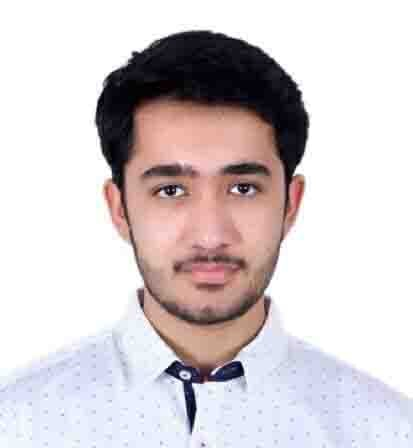
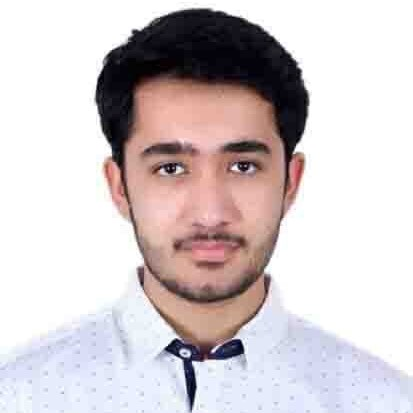
fixed more member images

diff --git a/members/index.html b/members/index.html
@@ -69,7 +69,7 @@
                      <p>Aakash Mangla </p>
                   </div>
                   <div class="gallery">
-                     <img src="../images/members/Capture.PNG"  class="w3-opacity w3-hover-opacity-off">
+                     <img src="../images/members/Capture.jpg"  class="w3-opacity w3-hover-opacity-off">
                      <p>Abhay Gupta</p>
                   </div>
                   <div class="gallery">
@@ -93,7 +93,7 @@
                      <p>Ansh Arora</p>
                   </div>
                   <div class="gallery">
-                     <img src="../images/members/arnub.PNG"  class="w3-opacity w3-hover-opacity-off">
+                     <img src="../images/members/arnub.jpg"  class="w3-opacity w3-hover-opacity-off">
                      <p>Arnav Arora</p>
                   </div>
                   <div class="gallery">
@@ -125,11 +125,11 @@
                      <p>Ishaan Bhattacharya</p>
                   </div>
                   <div class="gallery">
-                     <img src="../images/members/jeremy.png"  class="w3-opacity w3-hover-opacity-off">
+                     <img src="../images/members/jeremy.jpg"  class="w3-opacity w3-hover-opacity-off">
                      <p>Jeremy Singson</p>
                   </div>
                   <div class="gallery">
-                     <img src="../images/members/pnpl.png"  class="w3-opacity w3-hover-opacity-off">
+                     <img src="../images/members/pnpl.jpg"  class="w3-opacity w3-hover-opacity-off">
                      <p>Kaustubh Varshney</p>
                   </div>
                   <div class="gallery">
@@ -161,7 +161,7 @@
                      <p>Palaash Goel</p>
                   </div>
                   <div class="gallery">
-                     <img src="../images/members/piyush.png"  class="w3-opacity w3-hover-opacity-off">
+                     <img src="../images/members/piyush.jpg"  class="w3-opacity w3-hover-opacity-off">
                      <p>Piyush Passi</p>
                   </div>
                   <div class="gallery">
@@ -169,10 +169,10 @@
                      <p>Prabhav Chauhan</p>
                   </div>
                   <div class="gallery">
-                     <img src="../images/members/bajaj.png"  class="w3-opacity w3-hover-opacity-off">
+                     <img src="../images/members/bajaj.jpg"  class="w3-opacity w3-hover-opacity-off">
                      <p>Pradyun Bajaj</p>
                   </div>
-		 <div class="gallery">
+		 		  <div class="gallery">
                      <img src="../images/members/prakhar.jpg"  class="w3-opacity w3-hover-opacity-off">
                      <p>Prakhar Gupta</p>
                   </div>
@@ -185,11 +185,11 @@
                      <p>Rachit Soni</p>
                   </div>
                   <div class="gallery">
-                     <img src="../images/members/raghav.PNG"  class="w3-opacity w3-hover-opacity-off">
+                     <img src="../images/members/raghav.jpg"  class="w3-opacity w3-hover-opacity-off">
                      <p>Raghav Ailawadi</p>
                   </div>
                   <div class="gallery">
-                     <img src="../images/members/rishabh.PNG"  class="w3-opacity w3-hover-opacity-off">
+                     <img src="../images/members/rishabh.jpg"  class="w3-opacity w3-hover-opacity-off">
                      <p>Rishabh Chhabra</p>
                   </div>
                   <div class="gallery">
@@ -209,7 +209,7 @@
                      <p>Saransh Tandon</p>
                   </div>
                   <div class="gallery">
-                     <img src="../images/members/sartha2.png"  class="w3-opacity w3-hover-opacity-off">
+                     <img src="../images/members/sartha2.jpg"  class="w3-opacity w3-hover-opacity-off">
                      <p>Sarthak Negi</p>
                   </div>
                   <div class="gallery">
@@ -217,7 +217,7 @@
                      <p>Sarvagya Kulshreshtha</p>
                   </div>
                   <div class="gallery">
-                     <img src="../images/members/bansal.png"  class="w3-opacity w3-hover-opacity-off">
+                     <img src="../images/members/bansal.jpg"  class="w3-opacity w3-hover-opacity-off">
                      <p>Shivam Bansal</p>
                   </div>
                   <div class="gallery">
@@ -225,7 +225,7 @@
                      <p>Shreyas Trehan</p>
                   </div>
                   <div class="gallery">
-                     <img src="../images/members/shubham.png"  class="w3-opacity w3-hover-opacity-off">
+                     <img src="../images/members/shubham.jpg"  class="w3-opacity w3-hover-opacity-off">
                      <p>Shubham Kumar</p>
                   </div>
                   <div class="gallery">
